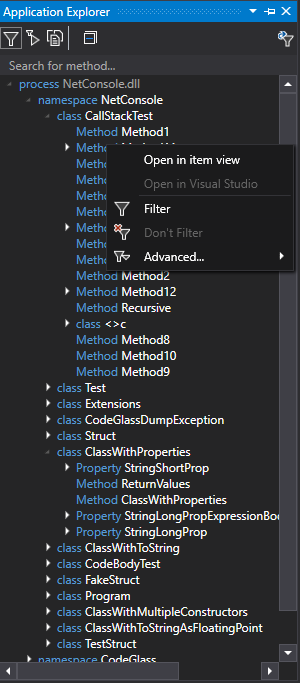
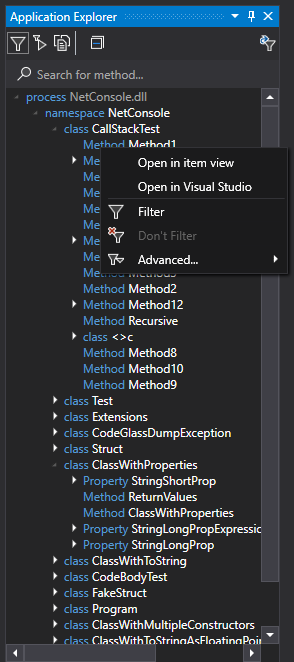
Updated main dock view

Changed region(s): [[0.0, 0.0, 1.0, 1.0]]

diff --git a/_docs/views/ApplicationInstanceDockWindow/ApplicationExplorer.md b/_docs/views/ApplicationInstanceDockWindow/ApplicationExplorer.md
@@ -5,28 +5,25 @@ description: Tree view that shows you all the data items like classes and method
 # Application Explorer
 ![assets/img/ApplicationInstanceWindow/AppInstanceApplicationExplorerContextMenu.png](../../../assets/img/ApplicationInstanceWindow/AppInstanceApplicationExplorerContextMenu.png)
 
-The application explorer shows you the collected data objects, like classes and methods / functions, from the profiled application.
+The application explorer shows all the collected data objects, like namespaces, classes and methods / functions, of the profiled application.
 
-On this screen you can easily manage what you want to [filter](../../features/ProfilingDataFiltering.md) by right clicking or open the the [object details view](ObjectDetailsView.md) by double clicking on them.
+On this screen you can easily manage what you want to [filter](../../features/ProfilingDataFiltering.md). This can be done by right clicking on an item or by opening the [object details view](ObjectDetailsView.md) by double clicking on an item.
 
-The items you see are based on the [application instance filters](../../features/ProfilingDataFiltering.md#application-instance-filters) you select and apply, light gray items mean that the item is partially filtered and dark gray are fully filtered
-
-More details below.
+The items you see are based on the [application instance filters](../../features/ProfilingDataFiltering.md#application-instance-filters). Items that are light gray are partially filtered and items that are dark gray are fully filtered.
 
 ## Toolbar
-The options from left to right:
+At the top of panel you can see the toolbar. The buttons are described below from left to right.
+- Show [current application instance filters](../../features/ProfilingDataFiltering.md#application-instance-filters),
+- Show [start application instance filters](../../features/ProfilingDataFiltering.md#application-instance-start-filters),
+- Apply no filters.
+- Collapse all items.
+- Apply the current filters to [application filters](../../features/ProfilingDataFiltering.md#application-filters).
 
-- Select what [filter](../../features/ProfilingDataFiltering.md) type you want to filter the explorer on
-    - [Current application instance filters](../../features/ProfilingDataFiltering.md#application-instance-filters),
-    - [Start application instance filters](../../features/ProfilingDataFiltering.md#application-instance-start-filters),
-    - No Filter
-- Collapse all items
-- Apply the current filters to [application filters](../../features/ProfilingDataFiltering.md#application-filters)
-- Below these buttons, there is a search bar. Here you can search for a specific method by its name. When you click one of the search results, it will expand the tree view until the selected method.
+Below these buttons, there is a search bar. Here you can search for a specific method by its name. When you click one of the search results, it will expand the tree view until the selected method.
 
 
 ## Context Menu
 {% include Dso/DsoContextMenu.md  %}
 
-# Application Breadcrumbs
-- [Application Instance Window](../ApplicationInstanceDockWindow.md) / [View Menu](../ApplicationInstanceDockWindow/MenuBar.md#view-menu) / 
+<!-- # Application Breadcrumbs
+- [Application Instance Window](../ApplicationInstanceDockWindow.md) / [View Menu](../ApplicationInstanceDockWindow/MenuBar.md#view-menu) /  -->

diff --git a/_docs/views/ApplicationInstanceDockWindow.md b/_docs/views/ApplicationInstanceDockWindow.md
@@ -3,31 +3,22 @@ title: View - Application Instance Window
 description: The main view of an application that you are profiling
 ---
 # Application Instance Window
-![assets/img/ApplicationInstanceWindow/AppInstanceDockWindow.png](../../assets/img/ApplicationInstanceWindow/AppInstanceDockWindow.png)
+![assets/img/ApplicationInstanceWindow/AppInstanceMainWindow.png](../../assets/img/ApplicationInstanceWindow/AppInstanceMainWindow.png)
 
-This is the view that you get when you [start a new instance](mainwindow/applicationInstance.md). 
-This view is quite extensive and has allot of functionality, we go in depth by the different [menu items](#menu-bar) and [toolbar items](#toolbar).
+This is the default window you see when you [start a new instance](../mainwindow/applicationInstance).
+This just gives you a nice dashboard of your application, we might add more dashboard items in the future here.
 
-If you are wondering, the current open tabs and tool panes in the screenshot are:
+From here you can access all the functionalities that CodeGlass has to offer. In the pages listed below you can find a more in depth explanation of all our features.
+
 - [Main Tab](ApplicationInstanceDockWindow/MainWindow.md)
-- [Call Tree Render Tab](ApplicationInstanceDockWindow/CallTreeRendering.md) (Other Tab next to Main)
-- [Code Member Details Tab](ApplicationInstanceDockWindow/CodeMemberDetailsView.md) (Other Tab next to Call Tree Render)
+- [Call Tree Render Tab](ApplicationInstanceDockWindow/CallTreeRendering.md) 
+- [Code Member Details Tab](ApplicationInstanceDockWindow/CodeMemberDetailsView.md) 
 - [Performance Tool Pane](ApplicationInstanceDockWindow/PerformanceView.md)
 - [Application Explorer Tool Pane](ApplicationInstanceDockWindow/ApplicationExplorer.md)
-- [Thread Explorer Tool Pane](ApplicationInstanceDockWindow/ThreadExplorer.md) (Collapsed on the right)
-- [Exception Explorer Tool Pane](ApplicationInstanceDockWindow/ExceptionExplorer.md) (Collapsed on the right)
-
-
-## Menu Bar
-Click [here](ApplicationInstanceDockWindow/MenuBar.md) to learn more about the Menu bar and items in the top right.
-
-
-## Toolbar
-Click [here](ApplicationInstanceDockWindow/Toolbar.md) to learn more about the toolbar and its items.
-
+- [Thread Explorer Tool Pane](ApplicationInstanceDockWindow/ThreadExplorer.md) 
+- [Exception Explorer Tool Pane](ApplicationInstanceDockWindow/ExceptionExplorer.md) 
+- [Menu Bar](ApplicationInstanceDockWindow/MenuBar.md)
+- [Toolbar](ApplicationInstanceDockWindow/Toolbar.md)
 
 # F1 Info
 If you came here by pressing F1 in the [CodeGlass Client](../features/CodeGlassClient.md) in one of the tabs, make sure that that tab has (keyboard) focus.
-
-# Application Breadcrumbs: 
-- [Splashscreen](Splashscreen.md) / [Main Menu - Applications](mainwindow/application.md) / [Main Menu - Instances](mainwindow/applicationInstance.md) / 

diff --git a/_docs/views/ApplicationInstanceDockWindow/PerformanceView.md b/_docs/views/ApplicationInstanceDockWindow/PerformanceView.md
@@ -6,7 +6,6 @@ description: The performance graphs of the application instance window.
 ![assets/img/ApplicationInstanceWindow/AppInstancePerformanceView.png](../../../assets/img/ApplicationInstanceWindow/AppInstancePerformanceView.png)
 
 The performance view shows you all kind of performance counters, currently they include:
-
 - Profiled functions (/s).
 - CPU (%)
 - Memory (MB)
@@ -15,10 +14,10 @@ The performance view shows you all kind of performance counters, currently they 
 {% include alertNoTitle.html  type="info" content="The profiled functions value is calculated by the amount of calls and returns that happened and that divided by 2." %}
 
 ## Limitations
-- [UWP](../../features/supportedruntimes.md#uwp) might not show you CPU or Memory, this is because of the nature of UWP having really limited access granted by Microsoft.
+- [UWP](../../features/supportedruntimes.md#uwp) applications might not show you CPU or memory usage, this is because of the nature of UWP having really limited access granted by Microsoft.
 
 ## Known Issues
-- Currently it does not hide metric graphs that a runtimes not always supports (like UWP).
+- Currently it does not hide metric graphs that a runtimes does not supports (like UWP).
 
-# Application Breadcrumbs
-- [Application Instance Window](../ApplicationInstanceDockWindow.md) / [View Menu](../ApplicationInstanceDockWindow/MenuBar.md#view-menu) / 
+<!-- # Application Breadcrumbs
+- [Application Instance Window](../ApplicationInstanceDockWindow.md) / [View Menu](../ApplicationInstanceDockWindow/MenuBar.md#view-menu) /  -->

diff --git a/_docs/views/ApplicationInstanceDockWindow/MainWindow.md b/_docs/views/ApplicationInstanceDockWindow/MainWindow.md
@@ -7,17 +7,9 @@ description: The main application instance window of a (previously) profiled app
 
 This is the default window you see when you [start a new instance](../mainwindow/applicationInstance).
 
-This just gives you a nice dashboard of your application, we might add more dashboard items in the future here.
-
-You can click "Bring process to front" to bring the profiling application in front.
+This just gives you a nice dashboard of your application, we are planning to add more dashboard items in the future here.
 
 {% include alertNoTitle.html  type="info" content="The profiled functions value is calculated by the amount of calls and returns that happened and that divided by 2." %}
-
-## Issues
-The gauge can roll over, meaning that if it goes over 500.000 it just keep on rotating.
-
-# Application Breadcrumbs
--  [Application Instance Window](../ApplicationInstanceDockWindow) / [View Menu](../ApplicationInstanceDockWindow/MenuBar#view-menu) / 
 
 # See Also:
 - [Application Instance View](../mainwindow/applicationInstance)

diff --git a/_includes/Dso/DsoContextMenu.md b/_includes/Dso/DsoContextMenu.md
@@ -1,6 +1,6 @@
 When you right click an item you have the following options:
 - Open in item view, this opens the [function detail](CodeMemberDetailsView) or [object detail](ObjectDetailsView) view.
-- Open in Visual Studio, see [Feature - Open Item In Visual Studio](../../features/OpenInVisualStudio) for more information.
+- Open in [Visual Studio](../../features/OpenInVisualStudio).
 
 You can [filter](../../features/ProfilingDataFiltering) the item by:
 - Filter (Remove all allowed access modifiers)
